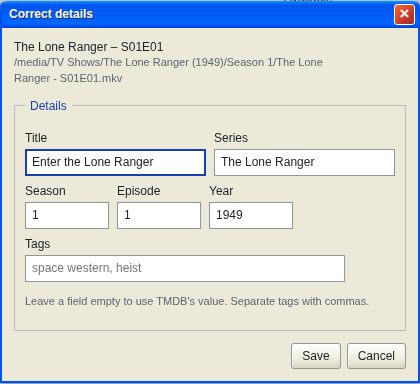
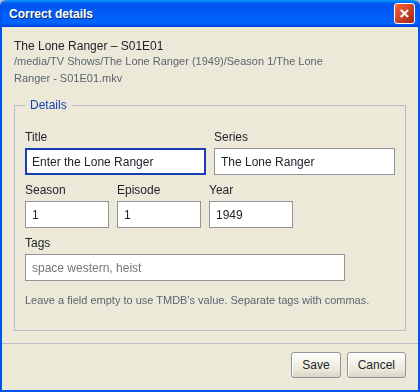
Integrate release-polish wave 2 (POLISH-033 to 038)
Refreshes the wiki and README screenshots from the demo library for wave 1's
dialog changes, and marks spec 0004 and the release-polish feature
Implemented now that every ticket is complete.

diff --git a/docs/implementation_plan/004-release-polish/0004-second-polish-pass.md b/docs/implementation_plan/004-release-polish/0004-second-polish-pass.md
@@ -476,10 +476,9 @@ Complete on 2026-11-04. Spec 0003 says Implemented, `.env.example` says
 `PUBLIC_BASE_URL` also decides which browsers may make changes, the
 media-engineer role names the exit gate instead of paraphrasing it, the
 glossary defines **Schedule preview**, and spec 0001 records that the Rule
-dialog keeps OK and Cancel. Deferred: POLISH-026's sticky dialog footer
-changes captured dialogs such as `special-preview.png`, so the wiki
-screenshots need a refresh from the seeded demo library, which this change
-could not run.
+dialog keeps OK and Cancel. The wave-2 integration then refreshed the wiki
+and README screenshots from the seeded demo library, since POLISH-026's
+sticky dialog footer changed captured dialogs such as `special-preview.png`.
 
 **Goal**: Every doc the audit named is right. Closes
 DOCS-spec-0003-release-readiness-status,

diff --git a/docs/specs/features/004-release-polish/README.md b/docs/specs/features/004-release-polish/README.md
@@ -1,6 +1,6 @@
 # Release Polish Feature
 
-Status: In Development
+Status: Implemented
 
 This feature takes kraziTV from "works" to "a non-technical first-time user,
 with minimal prompting, builds channels and enjoys it", inside the Windows XP

diff --git a/docs/specs/features/004-release-polish/specs/0004-second-polish-pass.md b/docs/specs/features/004-release-polish/specs/0004-second-polish-pass.md
@@ -1,6 +1,6 @@
 # Spec 0004: Second Polish Pass
 
-Status: Accepted
+Status: Implemented
 
 ## Intent
 
